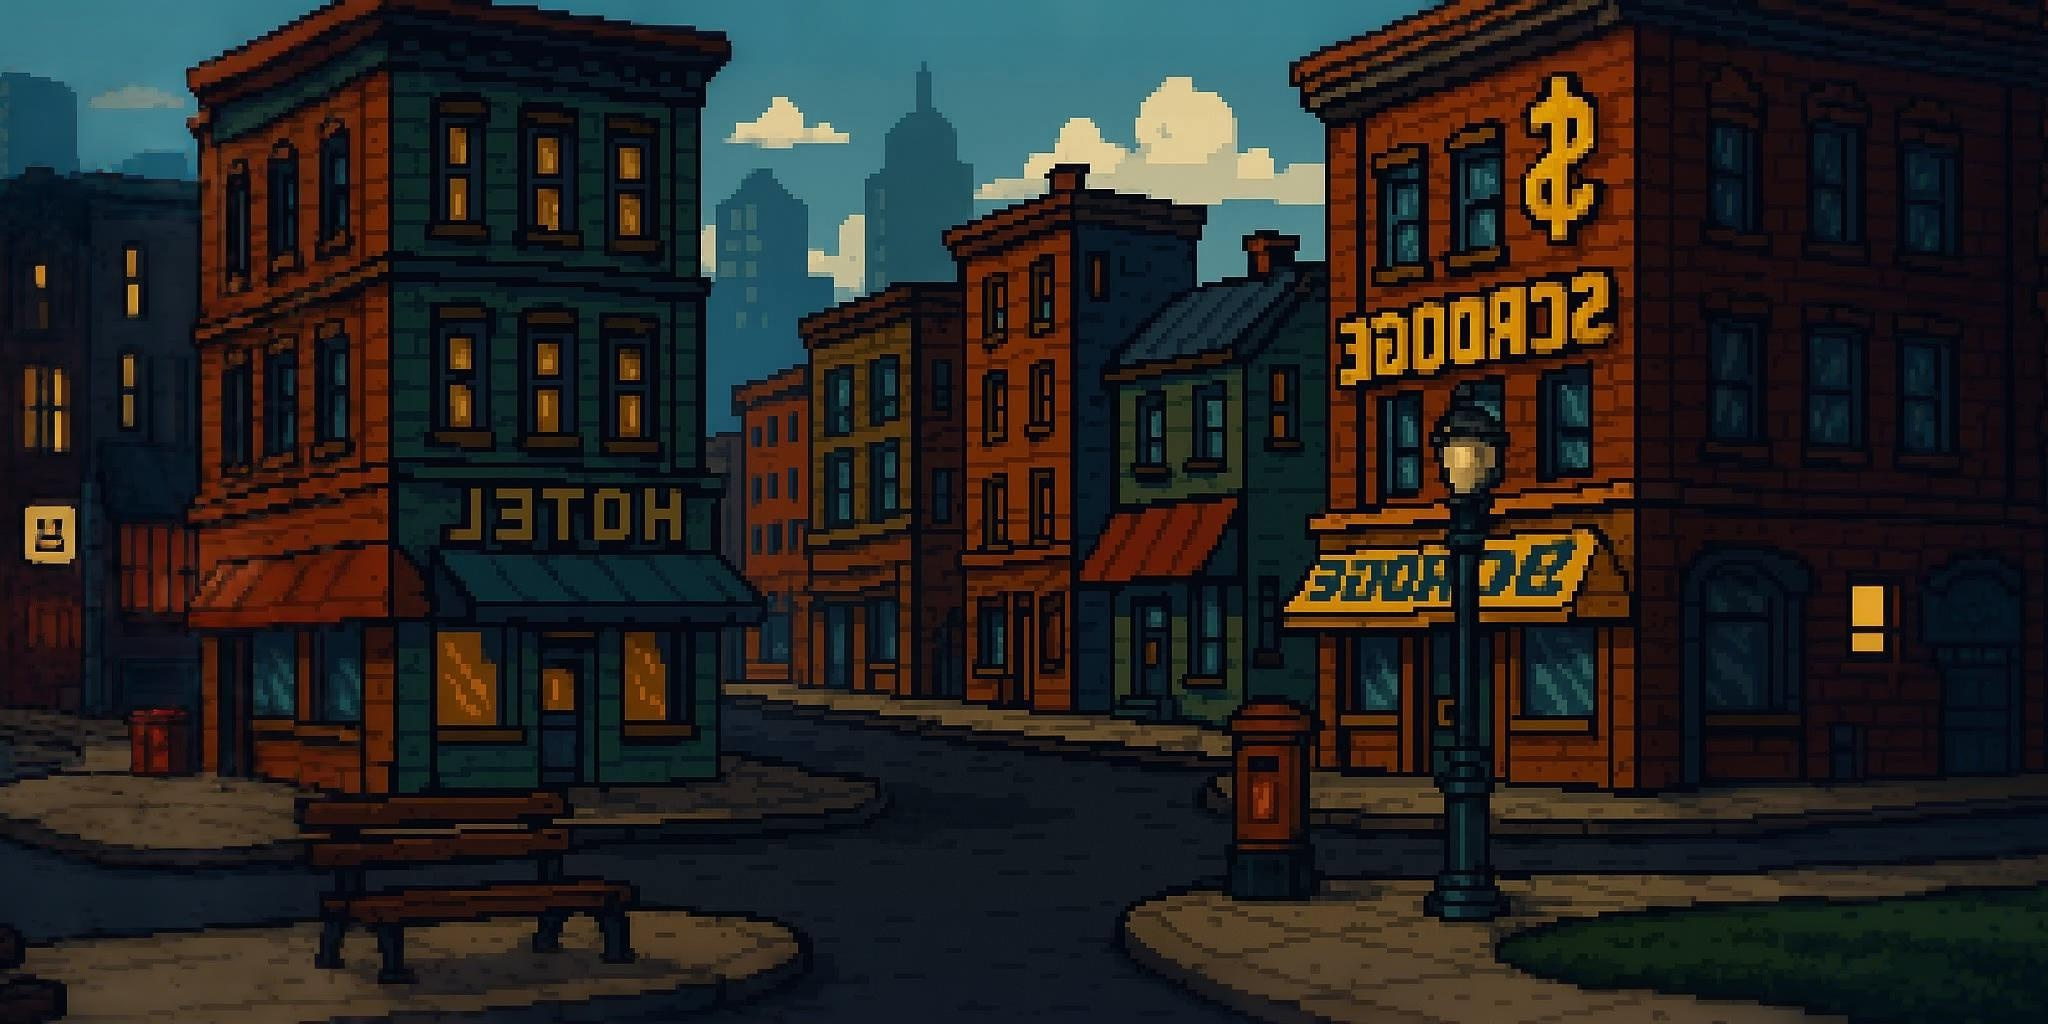
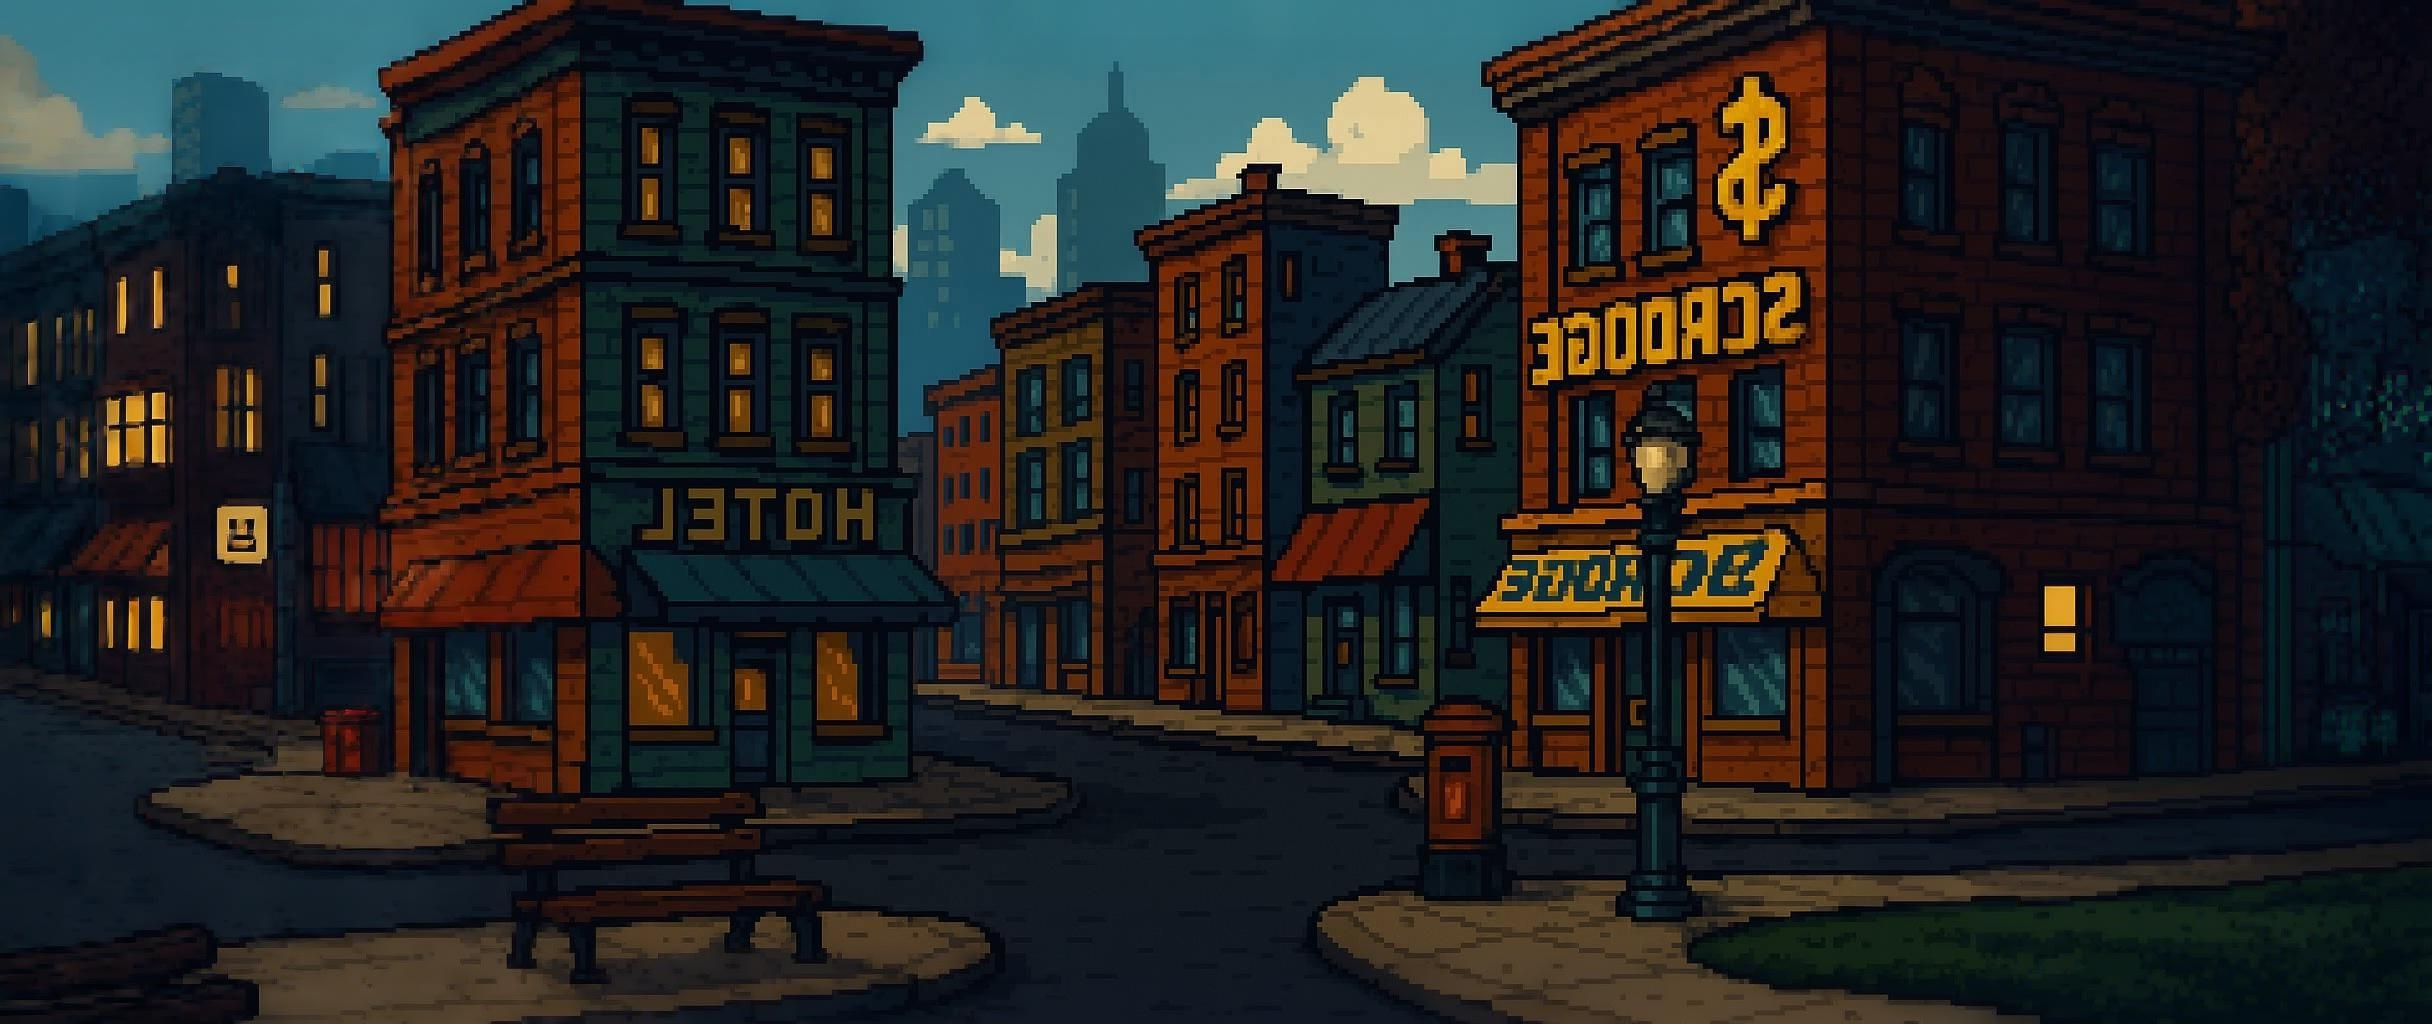
Revert "hi me again"
This reverts commit c3ce274db8ce5a89350a4ef0b5c7977a28ffbcc2.

diff --git a/images/renamer.py b/images/renamer.py
@@ -5,10 +5,9 @@ from PIL import Image
 base_path = "."
 
 # Alleen deze mappen verwerken
-allowed_folders = {"fabriek-bg","industrie-bg","pakhuis-bg"}  # <-- pas aan
+allowed_folders = {"fabriek-bg", "industrie-bg", "pakhuis-bg"}
 
-TARGET_WIDTH = 2048
-image_extensions = {".png"}
+image_extensions = {".jpg"}
 
 for folder in os.listdir(base_path):
     folder_path = os.path.join(base_path, folder)
@@ -17,6 +16,9 @@ for folder in os.listdir(base_path):
     if not os.path.isdir(folder_path) or folder not in allowed_folders:
         continue
 
+    # Prefix = eerste deel van de mapnaam vóór het eerste '-'
+    prefix = folder.split("-")[0]
+
     for filename in os.listdir(folder_path):
         name, ext = os.path.splitext(filename)
         ext = ext.lower()
@@ -24,25 +26,18 @@ for folder in os.listdir(base_path):
         if ext not in image_extensions:
             continue
 
-        img_path = os.path.join(folder_path, filename)
+        old_path = os.path.join(folder_path, filename)
+        new_name = f"{prefix}-img-{name}.png"
+        new_path = os.path.join(folder_path, new_name)
 
-        with Image.open(img_path) as img:
-            width, height = img.size
+        # Converteren naar PNG
+        with Image.open(old_path) as img:
+            img.save(new_path, "PNG")
 
-            # Als de afbeelding smaller is dan 2048, sla over
-            if width <= TARGET_WIDTH:
-                print(f"Overgeslagen (te smal): {folder}/{filename}")
-                continue
+        # Oude bestand verwijderen als het geen PNG was
+        if ext != ".png":
+            os.remove(old_path)
 
-            # Bereken crop: middelste 2048 pixels
-            left = (width - TARGET_WIDTH) // 2
-            right = left + TARGET_WIDTH
-
-            cropped = img.crop((left, 0, right, height))
-
-            # Overschrijf het originele bestand
-            cropped.save(img_path)
-
-            print(f"Bijgesneden: {folder}/{filename}")
+        print(f"{filename} → {new_name}")
 
 print("Klaar!")
